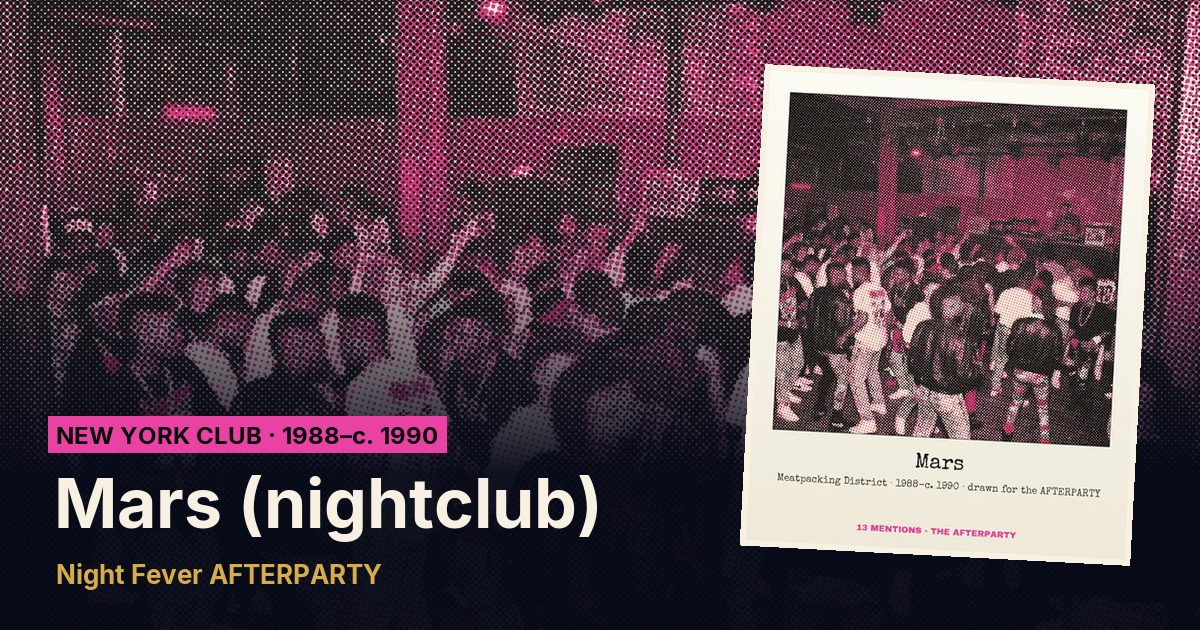
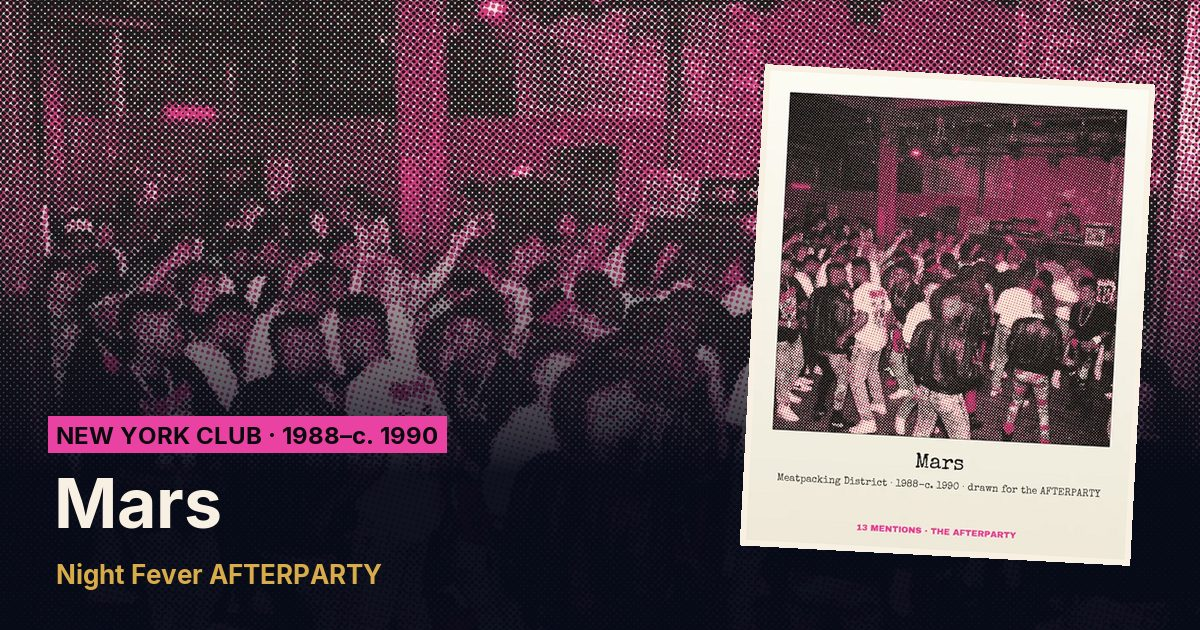
Mars: the A–Z name is just Mars (was Mars (nightclub)) - club page title, card, map and share picture (Lisa: yes, just mars, 19 Nov 2026)

Changed region(s): [[0.185, 0.754, 0.5242, 0.8746]]

diff --git a/src/data/locations.ts b/src/data/locations.ts
@@ -197,7 +197,7 @@ export const LOCATIONS: Located[] = [
   { name: "Weimar Republic", lat: 52.52, lng: 13.405, area: "Germany" },
   { name: "Soviet Union", lat: 55.7558, lng: 37.6173, area: "USSR" },
   { name: "Berlin Wall", lat: 52.5163, lng: 13.3777, area: "Berlin" },
-  { name: "Mars (nightclub)", lat: 40.7405, lng: -74.0079, area: "Meatpacking" },
+  { name: "Mars", lat: 40.7405, lng: -74.0079, area: "Meatpacking" },
   { name: "Quick (club)", lat: 40.7213, lng: -74.0083, area: "Tribeca" },
   { name: "Peppermint Lounge", lat: 40.7575, lng: -73.985, area: "Times Square" },
   { name: "Knickerbocker Hotel (West 45th Street)", lat: 40.7574, lng: -73.9851, area: "Times Square" },
